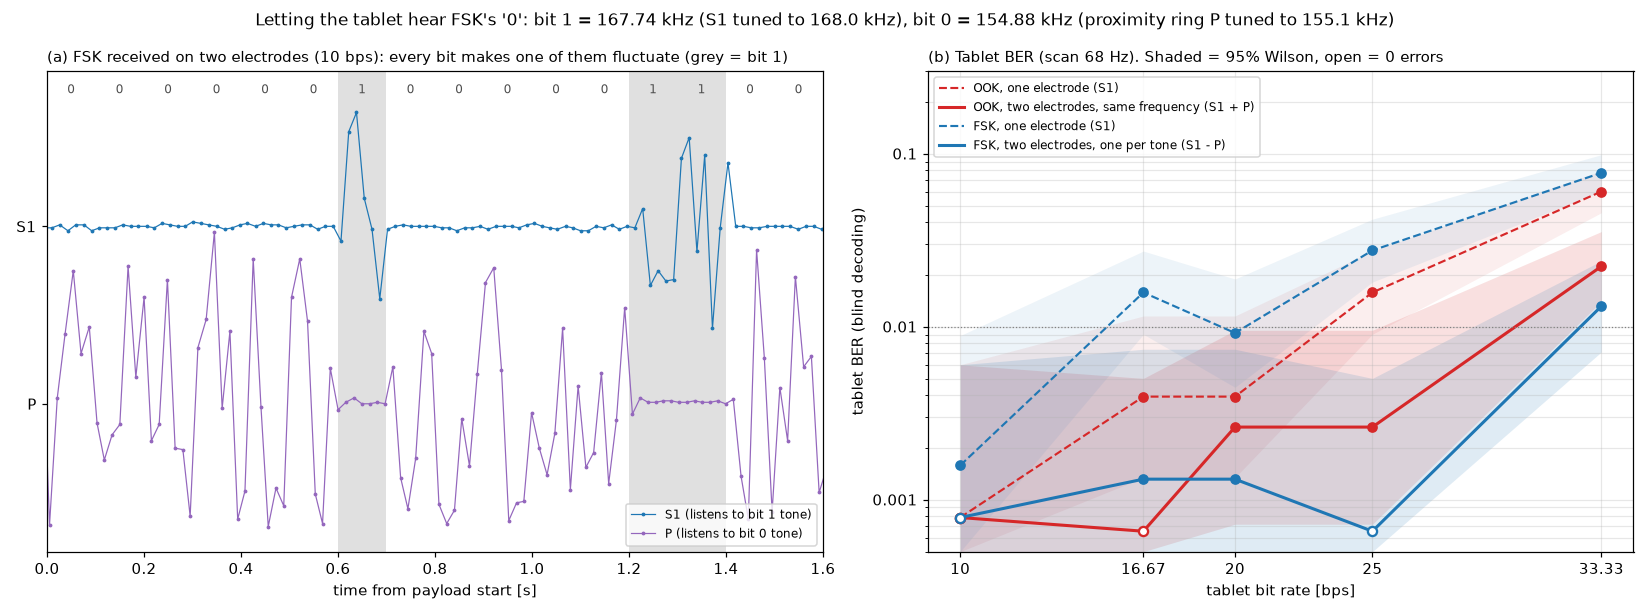
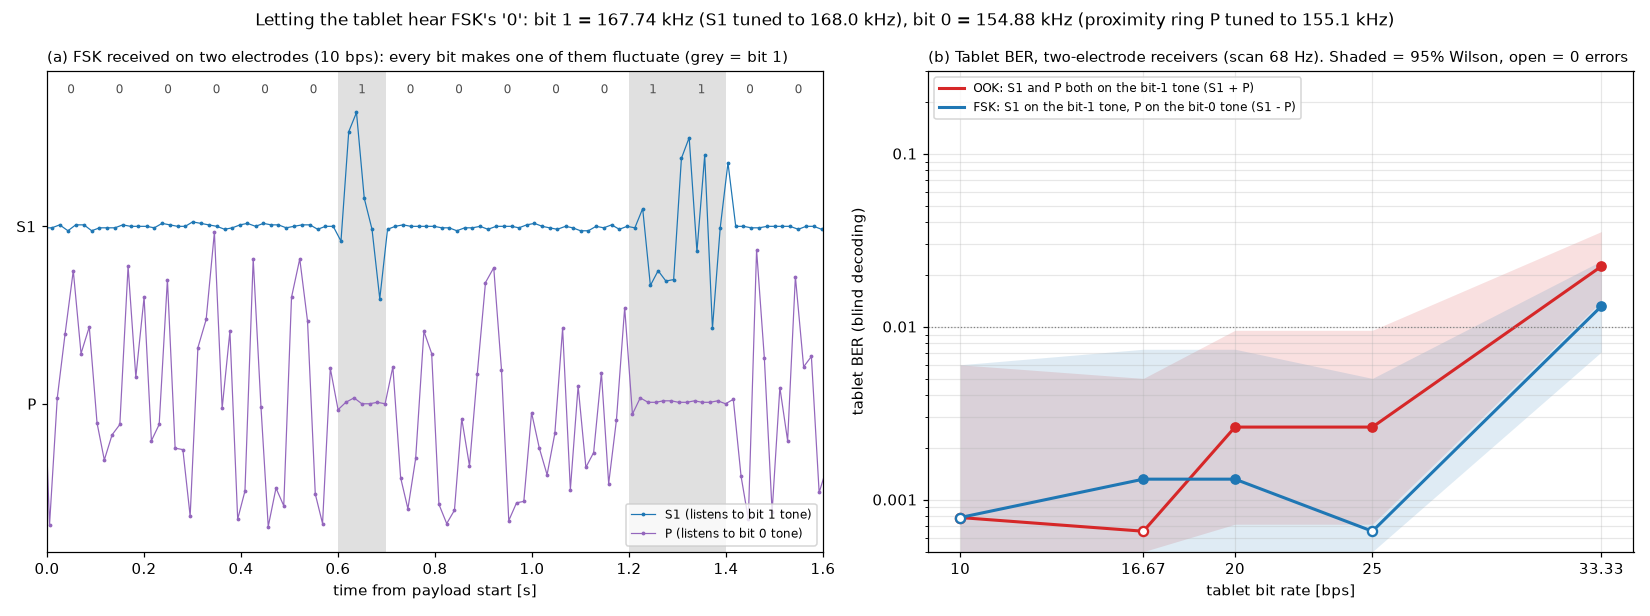
plot_dual: show only the two-electrode receivers in the BER panel

diff --git a/plot_dual.py b/plot_dual.py
@@ -6,7 +6,8 @@
    -> data/dual_ber.png, data/dual_ber.csv
 
 (a) FSK 를 받는 동안 S1 (bit 1 주파수) 과 P (bit 0 주파수) 의 count - 매 비트에 둘 중 하나가 출렁인다
-(b) 태블릿 BER: OOK 한 전극 / OOK 두 전극(같은 주파수, 흔들림 합) / FSK 한 전극 / FSK 두 전극(두 주파수, 흔들림 차)
+(b) 태블릿 BER, 두 전극 수신만: OOK(같은 주파수, 흔들림 합) / FSK(두 주파수, 흔들림 차)
+    (S1 하나로 받은 결과도 result.json 의 best.single 에 있다)
     블라인드 판정, 옅은 띠 = 95 % Wilson 구간, 속 빈 점 = 오류 0 (0.5/N)
 """
 import csv, glob, json, math, os, sys
@@ -20,10 +21,8 @@ HERE = os.path.dirname(os.path.abspath(__file__))
 sys.path[:0] = [HERE, os.path.join(os.path.dirname(HERE), "transceiver")]
 import cap_ook_tx as TX
 matplotlib.rcParams["font.family"] = ["DejaVu Sans"]
-STYLE = {("ook2", "single"): ("OOK, one electrode (S1)", "tab:red", "--"),
-         ("ook2", "dual"): ("OOK, two electrodes, same frequency (S1 + P)", "tab:red", "-"),
-         ("fsk2", "single"): ("FSK, one electrode (S1)", "tab:blue", "--"),
-         ("fsk2", "dual"): ("FSK, two electrodes, one per tone (S1 - P)", "tab:blue", "-")}
+STYLE = {("ook2", "dual"): ("OOK: S1 and P both on the bit-1 tone (S1 + P)", "tab:red", "-"),
+         ("fsk2", "dual"): ("FSK: S1 on the bit-1 tone, P on the bit-0 tone (S1 - P)", "tab:blue", "-")}
 
 
 def wilson(e, n, z=1.96):
@@ -112,7 +111,8 @@ def main():
     a.xaxis.set_major_formatter(FuncFormatter(lambda v, _: f"{v:g}"))
     a.grid(alpha=0.3, which="both"); a.legend(fontsize=8, loc="upper left")
     sc = np.median([r["scan_hz"] for r in runs])
-    a.set_title(f"(b) Tablet BER (scan {sc:.0f} Hz). Shaded = 95% Wilson, open = 0 errors", fontsize=10, loc="left")
+    a.set_title(f"(b) Tablet BER, two-electrode receivers (scan {sc:.0f} Hz). Shaded = 95% Wilson, open = 0 errors",
+                fontsize=10, loc="left")
     f1 = np.median([r["f1_hz"] for r in runs]) / 1e3
     f0s = [r["f0_hz"] for r in runs if r.get("f0_hz")]
     fig.suptitle(f"Letting the tablet hear FSK's '0': bit 1 = {f1:.2f} kHz (S1 tuned to 168.0 kHz), "
